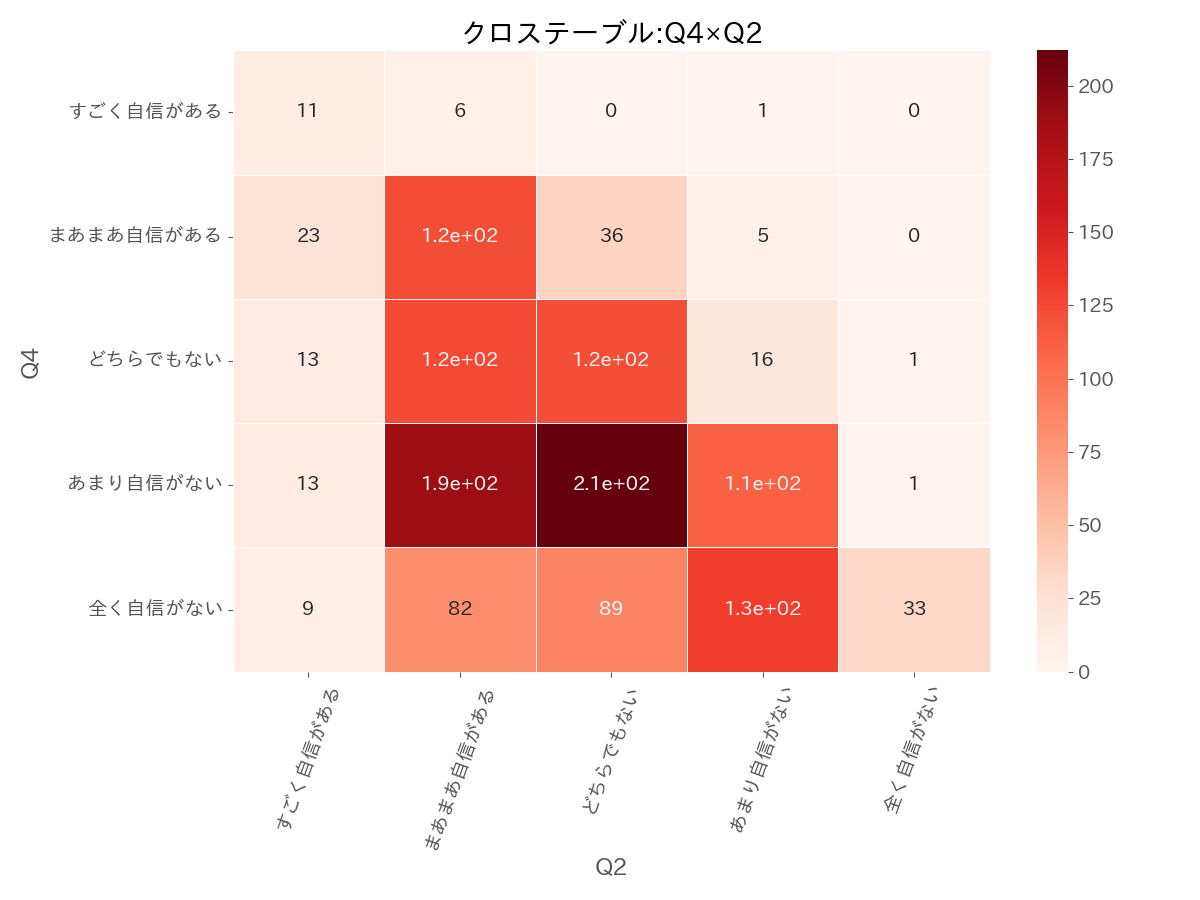
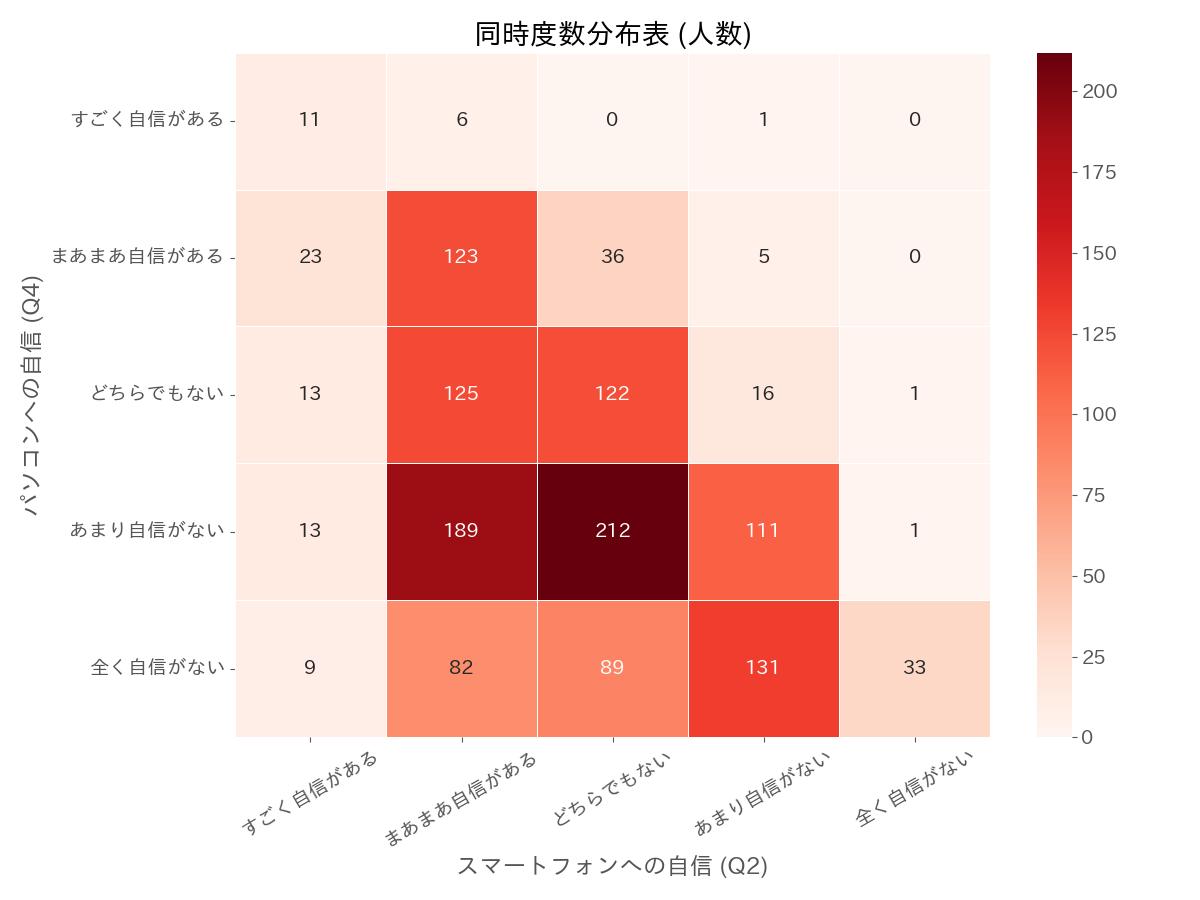
lectures(dsp, slds): 同時度数分布表と標準化残差の図を読みやすく作り直す
- 軸に質問の内容 (パソコンへの自信 / スマートフォンへの自信) を表示する
- 標準化残差の色の範囲を ±1.96 の頭打ちから最大値に合わせ, 絶対値 1.96 超のセルに * を付ける
- 独立性の検定の判定を p <= 0.025 から 0.05 に直し, 標準化残差の計算で残差表を上書きしないようにする

diff --git a/lectures/dsp/dsp12.md b/lectures/dsp/dsp12.md
@@ -520,6 +520,9 @@ order = {target_row:['すごく自信がある'
                     ,'どちらでもない'
                     ,'あまり自信がない'
                     ,'全く自信がない']}
+## 図の軸に表示する質問の内容
+labels = {'Q2':'スマートフォンへの自信 (Q2)'
+         ,'Q4':'パソコンへの自信 (Q4)'}
 
 crosstab = pd.crosstab(df[target_row],df[target_col])
 crosstab = crosstab.reindex(order[target_row],axis='index')
@@ -533,8 +536,10 @@ sns.heatmap( crosstab
            , annot=True
            , fmt='d')
 
-plt.title('クロステーブル:' + target_row + '×' + target_col)
-plt.xticks(rotation=70)
+plt.title('同時度数分布表 (人数)')
+plt.ylabel(labels[target_row])
+plt.xlabel(labels[target_col])
+plt.xticks(rotation=30)
 plt.tight_layout()
 plt.savefig(dir_fig + 'cross_table_'+ target_row + '_' + target_col +'.png')
 plt.close()
@@ -556,7 +561,7 @@ x2, p, dof, e = st.chi2_contingency(crosstab,correction=False)
 print(p)
 # >>> 2.2871064452593352e-84
 
-if p <= 0.025:
+if p <= 0.05:
     print('有意')
 else:
     print('有意でない')
@@ -581,7 +586,7 @@ residual = crosstab - expect
 col_sum = crosstab.sum()
 row_sum = crosstab.transpose().sum()
 total   = col_sum.sum()
-stdres  = residual
+stdres  = residual.copy()
 
 for c in stdres.columns:
     for r in stdres.index:
@@ -591,22 +596,28 @@ for c in stdres.columns:
                                   * (1 - row_sum[r] / total))
 
 #ヒートマップの作成
+## 色の範囲は絶対値の最大に合わせ, 絶対値が 1.96 を超えるセルに * を付ける
+lim   = np.abs(stdres.values).max()
+annot = stdres.apply(lambda col: col.map(lambda v: f'{v:.1f}' + ('*' if abs(v) > 1.96 else '')))
 sns.heatmap(stdres
-           ,cmap=plt.get_cmap('bwr')
-           ,vmax=1.96
-           ,vmin=-1.96
+           ,cmap=plt.get_cmap('RdBu_r')
+           ,vmax=lim
+           ,vmin=-lim
            ,center=0
            ,xticklabels=1
            ,linewidths=.5
-           ,annot=True)
-plt.title('標準化残差:'+ target_row + '×' + target_col)
-plt.xticks(rotation=70)
+           ,annot=annot
+           ,fmt='')
+plt.title('標準化残差 (* は絶対値が 1.96 を超えるセル)')
+plt.ylabel(labels[target_row])
+plt.xlabel(labels[target_col])
+plt.xticks(rotation=30)
 plt.tight_layout()
 plt.savefig(dir_fig + 'stdres_' + target_row + '_' + target_col + '.png')
 plt.close()
 ~~~
 
-作成された標準化残差を確認すると, 対角線上のセル (2 つの質問に同じ程度の自信を答えた組み合わせ) の多くが正の大きな値になっています. 例えば, 両方に「すごく自信がある」と答えた組み合わせは 11, 両方に「全く自信がない」と答えた組み合わせは 9.5 です. 反対に, 対角線から離れたセルは負の値になっています. 標準化残差の絶対値が 1.96 を超えるセルは, 5% 水準で期待度数から有意に偏っていると判断できます. したがって, スマートフォンに自信がある学生ほどパソコンにも自信があるという偏りが, 統計的に確かめられました.
+作成された標準化残差を確認すると, 対角線上のセル (2 つの質問に同じ程度の自信を答えた組み合わせ) の多くが正の大きな値になっています. 例えば, 両方に「すごく自信がある」と答えた組み合わせは 10.9, 両方に「全く自信がない」と答えた組み合わせは 9.5 です. 反対に, 対角線から離れたセルは負の値になっています. 標準化残差の絶対値が 1.96 を超えるセルは, 5% 水準で期待度数から有意に偏っていると判断でき, 図では値に「*」を付けています. 「*」の付いていないセル (例えば, パソコンに「あまり自信がない」, スマートフォンに「あまり自信がない」の 1.2) は, 期待度数との差が偶然の範囲を超えるとはいえません. したがって, スマートフォンに自信がある学生ほどパソコンにも自信があるという偏りが, 統計的に確かめられました.
 
 ![標準化残差](/images/slds/ch16/regit.png)
 

diff --git a/lectures/slds/slds16.md b/lectures/slds/slds16.md
@@ -519,6 +519,9 @@ order = {target_row:['すごく自信がある'
                     ,'どちらでもない'
                     ,'あまり自信がない'
                     ,'全く自信がない']}
+## 図の軸に表示する質問の内容
+labels = {'Q2':'スマートフォンへの自信 (Q2)'
+         ,'Q4':'パソコンへの自信 (Q4)'}
 
 crosstab = pd.crosstab(df[target_row],df[target_col])
 crosstab = crosstab.reindex(order[target_row],axis='index')
@@ -532,8 +535,10 @@ sns.heatmap( crosstab
            , annot=True
            , fmt='d')
 
-plt.title('クロステーブル:' + target_row + '×' + target_col)
-plt.xticks(rotation=70)
+plt.title('同時度数分布表 (人数)')
+plt.ylabel(labels[target_row])
+plt.xlabel(labels[target_col])
+plt.xticks(rotation=30)
 plt.tight_layout()
 plt.savefig(dir_fig + 'cross_table_'+ target_row + '_' + target_col +'.png')
 plt.close()
@@ -555,7 +560,7 @@ x2, p, dof, e = st.chi2_contingency(crosstab,correction=False)
 print(p)
 # >>> 2.2871064452593352e-84
 
-if p <= 0.025:
+if p <= 0.05:
     print('有意')
 else:
     print('有意でない')
@@ -580,7 +585,7 @@ residual = crosstab - expect
 col_sum = crosstab.sum()
 row_sum = crosstab.transpose().sum()
 total   = col_sum.sum()
-stdres  = residual
+stdres  = residual.copy()
 
 for c in stdres.columns:
     for r in stdres.index:
@@ -590,22 +595,28 @@ for c in stdres.columns:
                                   * (1 - row_sum[r] / total))
 
 #ヒートマップの作成
+## 色の範囲は絶対値の最大に合わせ, 絶対値が 1.96 を超えるセルに * を付ける
+lim   = np.abs(stdres.values).max()
+annot = stdres.apply(lambda col: col.map(lambda v: f'{v:.1f}' + ('*' if abs(v) > 1.96 else '')))
 sns.heatmap(stdres
-           ,cmap=plt.get_cmap('bwr')
-           ,vmax=1.96
-           ,vmin=-1.96
+           ,cmap=plt.get_cmap('RdBu_r')
+           ,vmax=lim
+           ,vmin=-lim
            ,center=0
            ,xticklabels=1
            ,linewidths=.5
-           ,annot=True)
-plt.title('標準化残差:'+ target_row + '×' + target_col)
-plt.xticks(rotation=70)
+           ,annot=annot
+           ,fmt='')
+plt.title('標準化残差 (* は絶対値が 1.96 を超えるセル)')
+plt.ylabel(labels[target_row])
+plt.xlabel(labels[target_col])
+plt.xticks(rotation=30)
 plt.tight_layout()
 plt.savefig(dir_fig + 'stdres_' + target_row + '_' + target_col + '.png')
 plt.close()
 ~~~
 
-作成された標準化残差を確認すると, 対角線上のセル (2 つの質問に同じ程度の自信を答えた組み合わせ) の多くが正の大きな値になっています. 例えば, 両方に「すごく自信がある」と答えた組み合わせは 11, 両方に「全く自信がない」と答えた組み合わせは 9.5 です. 反対に, 対角線から離れたセルは負の値になっています. 標準化残差の絶対値が 1.96 を超えるセルは, 5% 水準で期待度数から有意に偏っていると判断できます. したがって, スマートフォンに自信がある学生ほどパソコンにも自信があるという偏りが, 統計的に確かめられました.
+作成された標準化残差を確認すると, 対角線上のセル (2 つの質問に同じ程度の自信を答えた組み合わせ) の多くが正の大きな値になっています. 例えば, 両方に「すごく自信がある」と答えた組み合わせは 10.9, 両方に「全く自信がない」と答えた組み合わせは 9.5 です. 反対に, 対角線から離れたセルは負の値になっています. 標準化残差の絶対値が 1.96 を超えるセルは, 5% 水準で期待度数から有意に偏っていると判断でき, 図では値に「*」を付けています. 「*」の付いていないセル (例えば, パソコンに「あまり自信がない」, スマートフォンに「あまり自信がない」の 1.2) は, 期待度数との差が偶然の範囲を超えるとはいえません. したがって, スマートフォンに自信がある学生ほどパソコンにも自信があるという偏りが, 統計的に確かめられました.
 
 ![標準化残差](/images/slds/ch16/regit.png)
 
